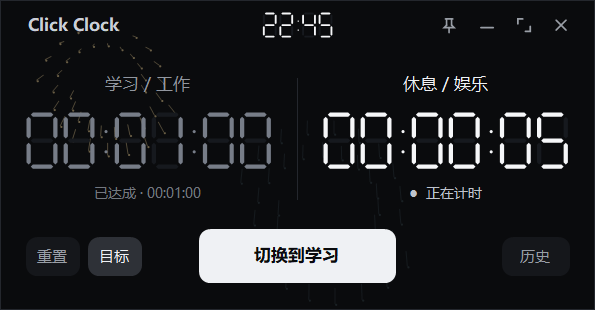
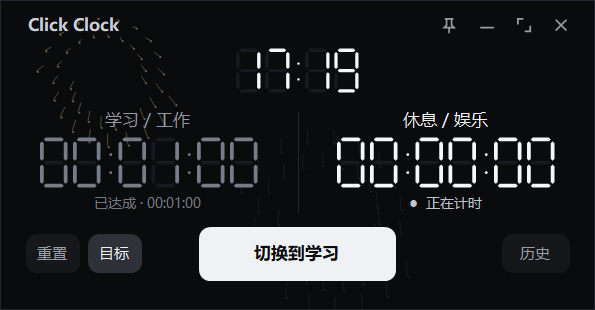
Add responsive horizontal, portrait and widescreen clock layouts

diff --git a/tests/ClickClock.Tests.cs b/tests/ClickClock.Tests.cs
@@ -18,6 +18,8 @@ namespace DualClock
     }
     internal static class Tests
     {
+        [System.Runtime.InteropServices.DllImport("user32.dll")]
+        private static extern bool SetWindowPos(IntPtr window,IntPtr after,int x,int y,int width,int height,uint flags);
         private static int passed;
         private static void Check(bool ok, string name)
         {
@@ -95,8 +97,41 @@ namespace DualClock
             LifecycleTests(root);
             HistoryFeatureTests(root);
             GoalTests(root);
+            ResponsiveLayoutTests();
             if (args.Contains("--layout")) LayoutTests(root);
             Console.WriteLine("ALL PASSED: " + passed);
+        }
+
+        private static void ResponsiveLayoutTests()
+        {
+            bool contained=true, separate=true, orientation=true;
+            for(int width=400;width<=2000;width+=37)
+            for(int height=220;height<=2000;height+=43)
+            {
+                var l=ClockLayout.Calculate(width,height);
+                var bounds=new RectangleF(0,34,width,height-34);
+                var controls=new[] {l.Clock,l.StudyLabel,l.Study,l.StudyStatus,l.RestLabel,l.Rest,l.RestStatus,l.Main,l.Reset,l.Goal,l.History,l.Footer};
+                contained &= controls.All(r=>r.Width>0 && r.Height>0 && bounds.Contains(r));
+                if(!controls.All(a=>controls.All(b=>a==b || !a.IntersectsWith(b))))
+                {
+                    if(separate) Console.WriteLine("Overlap at " + width + "x" + height + ": " + string.Join(";",controls.Select((a,i)=>i+":"+a)));
+                    separate=false;
+                }
+                orientation &= l.Portrait==(width<height);
+            }
+            Check(contained,"Responsive layout sweep keeps content in window");
+            Check(separate,"Responsive layout sweep has no content overlaps");
+            Check(orientation,"Responsive layout switches at width-height boundary");
+            var small=ClockLayout.Calculate(480,250); var wide=ClockLayout.Calculate(1920,1080);
+            Check(wide.Study.Height>small.Study.Height*3 && wide.Main.Width>small.Main.Width,
+                "Wide fullscreen scales timers and actions beyond compact window");
+            Check(wide.Reset.Left>1920*.25f && wide.History.Right<1920*.75f,
+                "Wide fullscreen groups actions near the center");
+            Check(Math.Abs(small.Clock.Width/small.Main.Width-.85f)<.001f && small.Clock.Y>=34,
+                "Larger wall clock sits below toolbar in proportion to switch button");
+            var portrait=ClockLayout.Calculate(400,720);
+            Check(portrait.Study.Bottom<portrait.Rest.Top && portrait.Main.Bottom<portrait.Reset.Top &&
+                portrait.DividerStart.Y==portrait.DividerEnd.Y,"Portrait layout stacks timers and secondary actions");
         }
 
         private static void GoalTests(string root)
@@ -287,20 +322,28 @@ namespace DualClock
             try { Native.SetProcessDpiAwareness(2); } catch (EntryPointNotFoundException) {}
             Application.EnableVisualStyles(); Application.SetCompatibleTextRenderingDefault(false);
             foreach (int dpi in new[] {96,120,144})
-            foreach (Size size in new[] {new Size(480,250),new Size(400,220)})
-            using (var form = new ClockForm(new StateStore(Path.Combine(root,"layout"))))
+            foreach (Size size in new[] {new Size(480,250),new Size(400,220),new Size(400,720),
+                new Size(400,401),new Size(400,400),new Size(401,400),new Size(1920,1080),new Size(1080,1920)})
+            using (var form = new ClockForm(new StateStore(Path.Combine(root,"layout-"+size.Width+"x"+size.Height+"-"+dpi))))
             {
                 Console.WriteLine("Showing layout test window...");
                 form.Show();
                 Application.DoEvents();
                 Console.WriteLine("Layout test window shown.");
                 typeof(ClockForm).GetMethod("SetDpi",BindingFlags.Instance|BindingFlags.NonPublic).Invoke(form,new object[]{dpi});
+                // Allow offscreen render fixtures taller than the attached monitor's tracking limit.
+                form.MaximumSize=new Size(10000,10000);
                 form.Size = new Size(size.Width*dpi/96,size.Height*dpi/96);
+                if(form.ClientSize!=new Size(size.Width*dpi/96,size.Height*dpi/96))
+                    SetWindowPos(form.Handle,IntPtr.Zero,form.Left,form.Top,size.Width*dpi/96,size.Height*dpi/96,0x14);
+                Check(form.ClientSize==new Size(size.Width*dpi/96,size.Height*dpi/96),"Requested render size reached " + size + " DPI " + dpi);
                 typeof(ClockForm).GetMethod("LayoutContents",BindingFlags.Instance|BindingFlags.NonPublic).Invoke(form,null);
                 var buttons = form.Controls.OfType<SoftButton>().ToList();
                 Check(buttons.Count==8 && !buttons.Any(b=>b.Text=="暂停" || b.Text=="继续"),
                     "No manual pause control " + size + " DPI " + dpi);
                 Check(form.Controls.Cast<Control>().All(c=>form.ClientRectangle.Contains(c.Bounds)),"Bounds " + size + " DPI " + dpi);
+                var all=form.Controls.Cast<Control>().ToList();
+                Check(all.All(a=>all.All(b=>a==b || !a.Bounds.IntersectsWith(b.Bounds))),"All controls remain separate after pixel rounding " + size + " DPI " + dpi);
                 Check(buttons.All(a=>buttons.All(b=>a==b || !a.Bounds.IntersectsWith(b.Bounds))),"Buttons do not overlap " + size + " DPI " + dpi);
                 var clockDisplay=form.Controls.OfType<SegmentDisplay>().Single(c=>c.AccessibleName.StartsWith("当前时间"));
                 Check(!buttons.Any(b=>b.Bounds.IntersectsWith(clockDisplay.Bounds)) &&
@@ -308,10 +351,22 @@ namespace DualClock
                 var brand=form.Controls.OfType<Label>().Single(l=>l.Text==Branding.Name);
                 Check(form.Text==Branding.Name && TextRenderer.MeasureText(brand.Text,brand.Font).Width<=brand.ClientSize.Width,
                     "Click Clock branding fits " + size + " DPI " + dpi);
+                Check(form.Controls.OfType<Label>().All(label=>string.IsNullOrEmpty(label.Text) ||
+                    TextRenderer.MeasureText(label.Text,label.Font,Size.Empty,TextFormatFlags.NoPadding).Height<=label.Height+1),
+                    "Labels remain readable " + size + " DPI " + dpi);
+                using (var preview=new Bitmap(form.Width,form.Height))
+                {
+                    form.DrawToBitmap(preview,new Rectangle(Point.Empty,preview.Size));
+                    preview.Save(Path.Combine(root,"layout-"+size.Width+"x"+size.Height+"-"+dpi+".png"));
+                }
+                SetLongSessionPreview(form);
+                var status=form.Controls.OfType<Label>().Single(l=>l.Text.StartsWith("目标 "));
+                Check(TextRenderer.MeasureText(status.Text,status.Font,Size.Empty,TextFormatFlags.NoPadding).Width<=status.Width,
+                    "Maximum target fits status row " + size + " DPI " + dpi);
                 using (var bitmap = new Bitmap(form.Width,form.Height))
                 {
                     form.DrawToBitmap(bitmap,new Rectangle(Point.Empty,bitmap.Size));
-                    bitmap.Save(Path.Combine(root,"layout-"+size.Width+"-"+dpi+".png"));
+                    bitmap.Save(Path.Combine(root,"layout-long-"+size.Width+"x"+size.Height+"-"+dpi+".png"));
                 }
             }
             using (var form = new ClockForm(new StateStore(Path.Combine(root,"native-integration"))))
@@ -365,6 +420,14 @@ namespace DualClock
                     "Reopened UI automatically resumes saved rest side without extra switch");
                 form.Close();
             }
+        }
+
+        private static void SetLongSessionPreview(ClockForm form)
+        {
+            var state=((ClockEngine)typeof(ClockForm).GetField("engine",BindingFlags.Instance|BindingFlags.NonPublic).GetValue(form)).State;
+            state.StudyTicks=TimeSpan.FromHours(125).Ticks+TimeSpan.FromSeconds(3).Ticks;
+            state.GoalTicks=ClockEngine.MaximumGoalTicks;
+            typeof(ClockForm).GetMethod("UpdateDisplay",BindingFlags.Instance|BindingFlags.NonPublic).Invoke(form,null);
         }
 
         private static void GoalLayoutTests(string root)

diff --git a/src/ClickClock/App.cs b/src/ClickClock/App.cs
@@ -368,61 +368,41 @@ namespace DualClock
             normalBounds = Bounds;
         }
 
+        private ClockLayout layout;
         private void LayoutContents()
         {
             if (main == null || ClientSize.Width == 0) return;
-            float s = ScaleFactor, w = ClientSize.Width / s, h = ClientSize.Height / s;
-            float bodyScale = Math.Min(2.4f, Math.Min(w / 480f, h / 250f));
-            float digitHeight = Math.Min(112, 48 * bodyScale);
-            float offsetY = h > 400 ? (h - 250 * bodyScale) / 2 : 0;
-            float labelY = h > 400 ? offsetY + 57 * bodyScale : 57 + Math.Max(0, h - 250) * .20f;
-            float digitY = labelY + 31 * Math.Min(bodyScale, 1.5f);
-            float statusY = digitY + digitHeight + 10;
-            float center = w / 2f;
-            Place(brand, 19, 8, 135, 24);
-            Place(wallClock, center - 31, 9, 62, 22);
-            Place(pin, w - 132, 6, 28, 28);
-            Place(min, w - 102, 6, 28, 28);
-            Place(full, w - 72, 6, 28, 28);
-            Place(close, w - 42, 6, 28, 28);
-            Place(studyLabel, 18, labelY, center - 36, 20);
-            Place(restLabel, center + 18, labelY, center - 36, 20);
-            Place(study, 19, digitY, center - 38, digitHeight + 2);
-            Place(rest, center + 19, digitY, center - 38, digitHeight + 2);
-            Place(studyStatus, 18, statusY, center - 36, 18);
-            Place(restStatus, center + 18, statusY, center - 36, 18);
-            float bottom = h > 400 ? offsetY + 184 * bodyScale : h - 66;
-            float bw = Math.Min(190, w / 3f), bh = Math.Min(52, Math.Max(38, 44 * bodyScale));
-            if (h <= 230)
+            layout = ClockLayout.Calculate(ClientSize.Width / ScaleFactor, ClientSize.Height / ScaleFactor);
+            Place(brand, new RectangleF(19,8,135,24));
+            Place(pin, new RectangleF(ClientSize.Width / ScaleFactor-132,6,28,28));
+            Place(min, new RectangleF(ClientSize.Width / ScaleFactor-102,6,28,28));
+            Place(full, new RectangleF(ClientSize.Width / ScaleFactor-72,6,28,28));
+            Place(close, new RectangleF(ClientSize.Width / ScaleFactor-42,6,28,28));
+            Place(wallClock,layout.Clock);
+            Place(studyLabel,layout.StudyLabel); Place(restLabel,layout.RestLabel);
+            Place(study,layout.Study); Place(rest,layout.Rest);
+            Place(studyStatus,layout.StudyStatus); Place(restStatus,layout.RestStatus);
+            Place(main,layout.Main); Place(reset,layout.Reset); Place(goal,layout.Goal); Place(history,layout.History);
+            Place(footer,layout.Footer);
+            float c=layout.ControlScale;
+            SetFont(brand,10,FontStyle.Bold);
+            SetFont(studyLabel,Math.Max(8,10*c),FontStyle.Regular);
+            SetFont(restLabel,Math.Max(8,10*c),FontStyle.Regular);
+            SetFont(studyStatus,Math.Max(7,8*c),FontStyle.Regular);
+            SetFont(restStatus,Math.Max(7,8*c),FontStyle.Regular);
+            SetFont(footer,7,FontStyle.Regular);
+            foreach (SoftButton button in new[] {main,reset,goal,history,pin,min,full,close})
             {
-                labelY = 48;
-                digitY = 76;
-                statusY = digitY + digitHeight + 6;
-                Place(studyLabel, 16, labelY, center-32, 18); Place(restLabel, center+16,labelY,center-32,18);
-                Place(study, 15,digitY,center-30,digitHeight); Place(rest,center+15,digitY,center-30,digitHeight);
-                Place(studyStatus,16,statusY,center-32,16); Place(restStatus,center+16,statusY,center-32,16);
-                bottom = h - 61;
+                bool tool=button.Glyph!=null;
+                button.ScaleFactor=ScaleFactor*(tool ? 1 : c);
+                SetFont(button,tool ? 8.5f : Math.Max(8,(button==main ? 10 : 8.5f)*c),
+                    button==main ? FontStyle.Bold : FontStyle.Regular);
             }
-            Place(main, center - bw/2, bottom, bw, bh);
-            Place(reset, 20, bottom + (bh-32)/2, 44, 32);
-            Place(goal, 70, bottom + (bh-32)/2, 44, 32);
-            Place(history, w-76, bottom + (bh-32)/2, 56, 32);
-            Place(footer, 12, h - 19, w - 24, 14);
-            SetFont(brand, 10, FontStyle.Bold);
-            SetFont(studyLabel, Math.Min(13, 10*bodyScale), FontStyle.Regular);
-            SetFont(restLabel, Math.Min(13, 10*bodyScale), FontStyle.Regular);
-            SetFont(studyStatus, 8, FontStyle.Regular); SetFont(restStatus, 8, FontStyle.Regular);
-            SetFont(footer, 7, FontStyle.Regular);
-            foreach (SoftButton button in new[] { main, reset, goal, history, pin, min, full, close })
-            {
-                button.ScaleFactor = s;
-                SetFont(button, button == main ? 10 : 8.5f, button == main ? FontStyle.Bold : FontStyle.Regular);
-            }
-            Invalidate();
+            Invalidate(true);
         }
-        private void Place(Control c, float x, float y, float w, float h)
+        private void Place(Control control, RectangleF bounds)
         {
-            c.SetBounds(Px(x), Px(y), Px(w), Px(h));
+            control.SetBounds(Px(bounds.X),Px(bounds.Y),Px(bounds.Width),Px(bounds.Height));
         }
         private void SetFont(Control c, float points, FontStyle style)
         {
@@ -475,7 +455,7 @@ namespace DualClock
             using (var pen = new Pen(Color.FromArgb(36, 39, 45)))
             {
                 e.Graphics.DrawRectangle(pen, 0, 0, Width-1, Height-1);
-                e.Graphics.DrawLine(pen, Width/2, studyLabel.Top + Px(6), Width/2, studyStatus.Bottom - Px(3));
+                if (layout != null) e.Graphics.DrawLine(pen, Px(layout.DividerStart.X), Px(layout.DividerStart.Y), Px(layout.DividerEnd.X), Px(layout.DividerEnd.Y));
             }
         }
 

diff --git a/src/ClickClock/ClockLayout.cs b/src/ClickClock/ClockLayout.cs
@@ -1,0 +1,77 @@
+using System;
+using System.Drawing;
+
+namespace DualClock
+{
+    // Pure logical-pixel layout, shared by desktop rendering and headless CI checks.
+    internal sealed class ClockLayout
+    {
+        internal bool Portrait;
+        internal float ControlScale;
+        internal RectangleF Clock, StudyLabel, Study, StudyStatus, RestLabel, Rest, RestStatus;
+        internal RectangleF Main, Reset, Goal, History, Footer;
+        internal PointF DividerStart, DividerEnd;
+
+        internal static ClockLayout Calculate(float width, float height)
+        {
+            var l = new ClockLayout { Portrait = width < height };
+            float scale = l.Portrait ? Math.Min(width / 400, (height - 54) / 666)
+                : Math.Min(width / 480, (height - 34) / 216);
+            scale = Math.Max(0.1f, scale);
+            float center = width / 2;
+            l.ControlScale = Math.Max(0.8f, (float)Math.Sqrt(scale));
+            float c = l.ControlScale;
+            l.Footer = new RectangleF(12, height - 19, width - 24, 14);
+            if (l.Portrait)
+            {
+                float top = 34 + Math.Max(0, height - 54 - 666 * scale) / 2;
+                float left = center - 176 * scale, bodyWidth = 352 * scale;
+                l.Main = new RectangleF(center - 90*c, top + 526*scale, 180*c, 48*c);
+                l.Clock = new RectangleF(center - l.Main.Width*.425f, top + 16*scale,
+                    l.Main.Width*.85f, l.Main.Height*.85f);
+                l.StudyLabel = new RectangleF(left, top+114*scale, bodyWidth, Math.Max(16,22*scale));
+                l.Study = new RectangleF(left, top+146*scale, bodyWidth, 64*scale);
+                l.StudyStatus = new RectangleF(left, top+218*scale, bodyWidth, Math.Max(16,20*scale));
+                l.RestLabel = new RectangleF(left, top+334*scale, bodyWidth, Math.Max(16,22*scale));
+                l.Rest = new RectangleF(left, top+366*scale, bodyWidth, 64*scale);
+                l.RestStatus = new RectangleF(left, top+438*scale, bodyWidth, Math.Max(16,20*scale));
+                l.DividerStart = new PointF(center-105*scale, top+286*scale);
+                l.DividerEnd = new PointF(center+105*scale, top+286*scale);
+                float row = l.Main.Bottom + 12*c;
+                l.Reset = new RectangleF(center-86*c,row,48*c,32*c);
+                l.Goal = new RectangleF(center-24*c,row,48*c,32*c);
+                l.History = new RectangleF(center+38*c,row,48*c,32*c);
+            }
+            else
+            {
+                float top = 34 + Math.Max(0, height - 34 - 216*scale)/2;
+                float left = center - 240*scale;
+                l.Main = new RectangleF(center-80*c,Math.Min(top+150*scale,height-24-44*c),160*c,44*c);
+                l.Clock = new RectangleF(center-l.Main.Width*.425f,top+4*scale,
+                    l.Main.Width*.85f,l.Main.Height*.85f);
+                l.StudyLabel = new RectangleF(left+18*scale,top+52*scale,204*scale,Math.Max(18,20*scale));
+                l.RestLabel = new RectangleF(center+18*scale,top+52*scale,204*scale,Math.Max(18,20*scale));
+                l.Study = new RectangleF(left+19*scale,top+76*scale,202*scale,42*scale);
+                l.Rest = new RectangleF(center+19*scale,top+76*scale,202*scale,42*scale);
+                l.StudyStatus = new RectangleF(left+18*scale,top+121*scale,204*scale,Math.Max(16,16*scale));
+                l.RestStatus = new RectangleF(center+18*scale,top+121*scale,204*scale,Math.Max(16,16*scale));
+                l.DividerStart = new PointF(center,top+56*scale);
+                l.DividerEnd = new PointF(center,top+137*scale);
+                float row=l.Main.Top+(l.Main.Height-32*c)/2;
+                if (width<=640 && height<=360)
+                {
+                    l.Reset=new RectangleF(20,row,44,32*c);
+                    l.Goal=new RectangleF(70,row,44,32*c);
+                    l.History=new RectangleF(width-76,row,56,32*c);
+                }
+                else
+                {
+                    l.Goal=new RectangleF(l.Main.Left-56*c,row,44*c,32*c);
+                    l.Reset=new RectangleF(l.Main.Left-106*c,row,44*c,32*c);
+                    l.History=new RectangleF(l.Main.Right+12*c,row,56*c,32*c);
+                }
+            }
+            return l;
+        }
+    }
+}

diff --git a/src/ClickClock/Celebration.cs b/src/ClickClock/Celebration.cs
@@ -25,13 +25,15 @@ namespace DualClock
         {
             g.Clear(Palette.Background);
             g.SmoothingMode = SmoothingMode.AntiAlias;
-            float scale = Math.Min(size.Width / 480f, size.Height / 250f);
+            bool portrait = size.Width < size.Height;
+            float scale = portrait ? Math.Min(size.Width / 400f,size.Height / 720f)
+                : Math.Min(size.Width / 480f, size.Height / 250f);
             for (int burst = 0; burst < 3; burst++)
             {
                 double time = (seconds + burst * 1.67) % 5.6;
                 int cycle = (int)((seconds + burst * 1.67) / 5.6);
                 float x = size.Width * (0.18f + ((burst * 37 + cycle * 23) % 65) / 100f);
-                float y = size.Height * (0.23f + ((burst * 17 + cycle * 13) % 26) / 100f);
+                float y = size.Height * (0.20f + ((burst * 23 + cycle * 13) % (portrait ? 56 : 30)) / 100f);
                 Color color = Colors[burst];
                 if (time < 0.7)
                 {

diff --git a/src/ClickClock/AssemblyInfo.cs b/src/ClickClock/AssemblyInfo.cs
@@ -3,6 +3,6 @@ using System.Runtime.InteropServices;
 [assembly: AssemblyTitle("Click Clock")]
 [assembly: AssemblyDescription("学习与休息的双向累计计时器")]
 [assembly: AssemblyProduct("Click Clock")]
-[assembly: AssemblyVersion("1.2.0.0")]
-[assembly: AssemblyFileVersion("1.2.0.0")]
+[assembly: AssemblyVersion("1.3.0.0")]
+[assembly: AssemblyFileVersion("1.3.0.0")]
 [assembly: ComVisible(false)]

diff --git a/docs/usage.zh-CN.md b/docs/usage.zh-CN.md
@@ -11,7 +11,10 @@
 
 ## 窗口
 
-- 顶部中央显示本地当前时间，格式为 24 小时制 `HH:mm`；系统时间或时区变化后自动更新。
+- 工具栏下方居中显示放大的本地当前时间，格式为 24 小时制 `HH:mm`；系统时间或时区变化后自动更新。
+- 宽度不小于高度时，两侧计时左右排列；拉成宽度小于高度的窄高窗口后自动上下排列，学习／工作在上，休息／娱乐在下。适合放在横屏副屏侧边，建议试用 400 × 720 的逻辑尺寸。
+- 竖向布局的大切换按钮在计时区下方，重置、目标、历史再下一行；横向紧凑窗口保持原按钮关系。布局随尺寸自动调整，无需额外设置。
+- 16:9 宽屏全屏会放大数字、时钟、标签和按钮，并将操作按钮集中在下方；退出全屏恢复原窗口位置、尺寸及对应横竖布局。布局选择也会随保存的窗口尺寸在重开后恢复。
 - 初始尺寸为 480 × 250，最小为 400 × 220，以上是 100% 缩放下的逻辑尺寸；系统放大显示时窗口相应变大。
 - 首次启动优先出现在非主屏的竖屏右上角，距工作区边缘约 16 个逻辑像素；之后记住位置、大小和置顶状态。
 - 拖动顶栏空白区域移动窗口，拖动窗口边缘或角落调整大小。
@@ -52,4 +55,6 @@
 
 新增检查覆盖目标上下界、保存失败回滚、达成与重置、休息及重开保持庆祝、小号时钟、目标窗口三档缩放，以及烟花在睡眠／最小化时启停与共享背景。系统时间和时区格式通过固定时间用例验证，未修改实际系统时钟。
 
-版本：1.2.0（2026-10-30）
+1.3.0 另覆盖 480 × 250、400 × 220、400 × 720、接近正方形、1920 × 1080、1080 × 1920 三档缩放截图检查，连续尺寸扫描、横竖切换边界、全屏还原，以及超长累计和最大目标提示。未实际拔除显示器。
+
+版本：1.3.0（2026-10-31）

diff --git a/README.md b/README.md
@@ -24,6 +24,7 @@ GitHub 的单文件下载名为 `Click-Clock.exe`；便携包内的程序名为 
 - 大按钮或空格一键切换，支持重置；开始后始终在两侧之间计时。
 - 黑底数码管显示，480 × 250 默认窗口、400 × 220 最小窗口，支持高 DPI。
 - 顶部小号数码管显示当前本地时间（24 小时制）。
+- 当前时间位于工具栏下方居中；横向窗口左右计时，窄高窗口自动上下计时，宽屏全屏同步放大并集中排列操作按钮。
 - 设置学习目标，累计达成后循环播放柔和烟花；重置保留目标，清除或修改目标可调整庆祝状态。
 - 拖动缩放、最小化、置顶和全屏；首次启动优先定位到竖向副屏右上角。
 - 每日历史、切换次数、单条删除，以及 CSV 导出。
@@ -35,6 +36,8 @@ GitHub 的单文件下载名为 `Click-Clock.exe`；便携包内的程序名为 
 详细操作、历史统计规则及数据迁移见 [中文使用说明](docs/usage.zh-CN.md)。
 
 ![达成学习目标后的背景烟花](docs/images/goal-achieved.png)
+
+[宽屏布局截图](docs/images/wide.png) · [竖向布局截图](docs/images/portrait.png)
 
 ## 数据兼容
 
@@ -77,7 +80,7 @@ powershell -NoProfile -ExecutionPolicy Bypass -File .\scripts\test.ps1 -IncludeL
 powershell -NoProfile -ExecutionPolicy Bypass -File .\scripts\package.ps1
 ```
 
-当前源码版本为 **1.2.0**，本地发布文件位于 `artifacts/release/v1.2.0/`。GitHub Actions 会在推送、拉取请求和手动触发时构建、运行核心检查并保存发布包；上方下载入口对应最近正式发布的 Release。
+当前源码版本为 **1.3.0**，本地发布文件位于 `artifacts/release/v1.3.0/`。GitHub Actions 会在推送、拉取请求和手动触发时构建、运行核心检查并保存发布包；上方下载入口对应最近正式发布的 Release。
 
 ## 项目结构
 

diff --git a/CHANGELOG.md b/CHANGELOG.md
@@ -1,5 +1,13 @@
 # 版本记录
 
+## 1.3.0 — 2026-10-31
+
+- 放大当前时间并移至工具栏下方，保留紧凑窗口尺寸和 24 小时制。
+- 根据窗口比例自动切换左右计时和上下计时，无需手动选择布局。
+- 宽屏全屏放大数字、时钟和按钮，操作按钮集中排列；退出全屏恢复原布局。
+- 增加横向、竖向、近正方形、多档 DPI 和连续尺寸扫描检查，适配超长累计及目标提示。
+- 调整竖向烟花分布，保留原计时、目标、历史和数据兼容性。
+
 ## 1.2.0 — 2026-10-30
 
 - 顶部增加 24 小时制小号数码管时钟，移除底部常驻快捷键提示。
